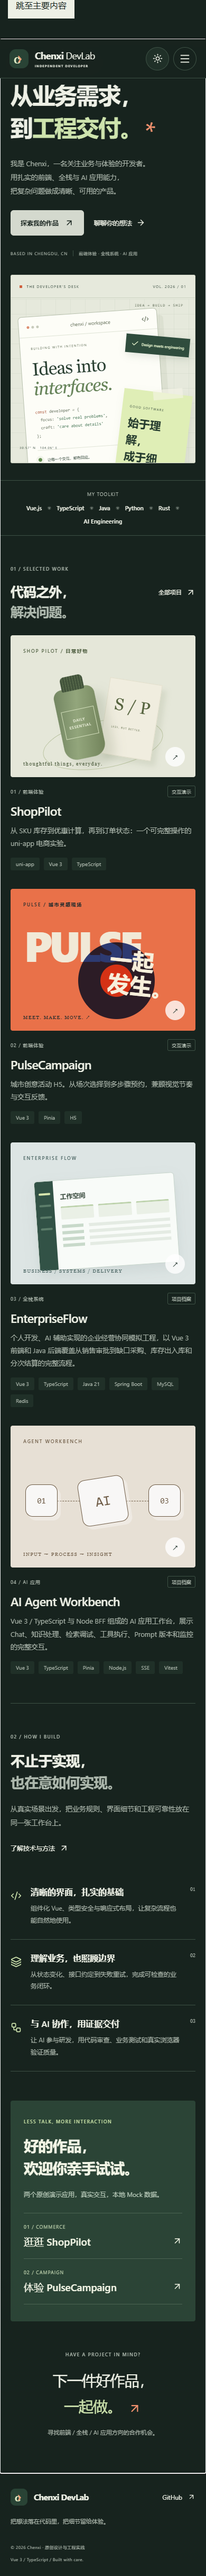
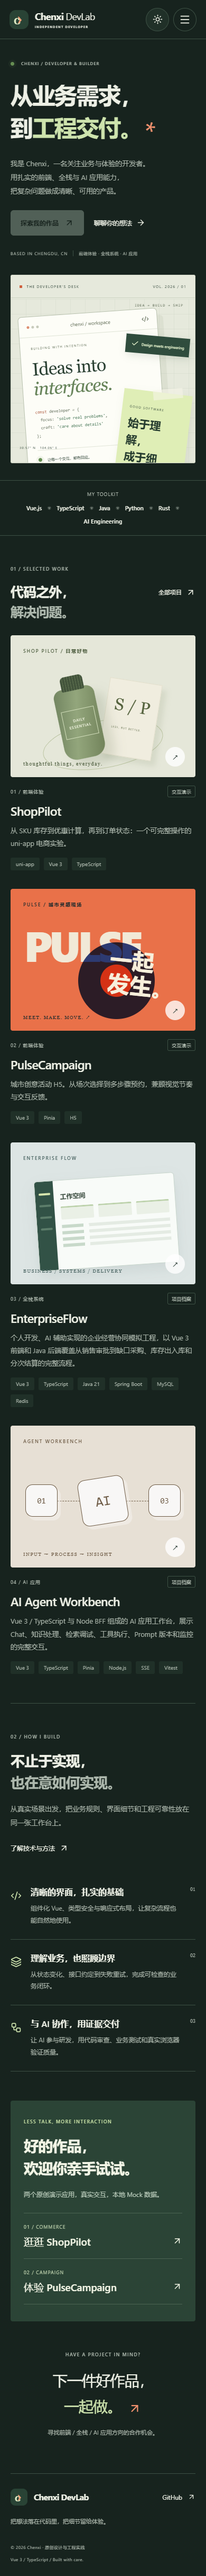
docs: record verified public deployment and online acceptance

diff --git a/DEPLOYMENT_REPORT.md b/DEPLOYMENT_REPORT.md
@@ -1,0 +1,37 @@
+# GitHub 发布与线上验收
+
+首次部署成功：**2026-10-12 13:43:22（Asia/Shanghai）**。
+
+- 公开仓库：[Callmecx/chenxi-devlab-2026](https://github.com/Callmecx/chenxi-devlab-2026)
+- 主站：[Chenxi DevLab](https://callmecx.github.io/chenxi-devlab-2026/)
+- 作品一：[ShopPilot H5](https://callmecx.github.io/chenxi-devlab-2026/shop/)
+- 作品二：[PulseCampaign H5](https://callmecx.github.io/chenxi-devlab-2026/pulse/)
+- 首轮成功工作流：[Actions 38208920874](https://github.com/Callmecx/chenxi-devlab-2026/actions/runs/38208920874)
+- 首次部署提交：`e374e3c737a7f6029fd42bd5bb2e7f91f0283210`
+- GitHub deployment ID：`7007324565`，API 状态 `success`。
+
+## 远端构建证据
+
+GitHub Actions 在 Ubuntu runner 中完成两套 `npm ci`、TypeScript、Lint、35 项单元/状态测试、三个 H5 构建、微信小程序编译、17 项 Playwright 测试和发布文件扫描。首轮 build job 用时 3 分 12 秒，Pages deploy 用时 11 秒。浏览器测试用时 29.3 秒。
+
+工作流保留 `test-evidence` 与 `wechat-mini-build` 产物。下载小程序产物后可用微信开发者工具尝试游客导入；没有微信审核、真机或支付上线结论。
+
+## 线上实际检查
+
+2026-10-12 13:45（北京时间），以 Chrome 154.0.8037.94 访问生产地址并验证：
+
+| 对象 | 结果 |
+|---|---|
+| 主站、ShopPilot、PulseCampaign | HTTP 200，标题与应用相符 |
+| 三个入口 390px 宽度 | 无横向溢出 |
+| 主站项目详情 → ShopPilot → 返回主站 | 保持正确仓库子路径 |
+| `evidence/TEST_REPORT.md` | HTTP 200 |
+| 历史企业管理系统截图、ShopPilot 本次结算截图 | HTTP 200 |
+| 页面异常 | 0 |
+| 第三方请求来源 | 0 |
+
+机器记录：[online-smoke.json](docs/testing/online-smoke.json)。这是实际线上冒烟验证，完整业务边界由本地与 CI 测试覆盖；不把 HTTP 200 当作所有商业场景验收。
+
+## 公开范围
+
+只发布本次新建源码、明确授权邮箱、原创新作品与脱敏证据。没有修改或上传用户其他私有工程。已知 uni-app 构建工具上游限制继续在 [安全报告](docs/testing/SECURITY_REVIEW.md) 中公开，不宣称绝对零风险。

diff --git a/README.md b/README.md
@@ -6,6 +6,10 @@
 
 公开仓库：[Callmecx/chenxi-devlab-2026](https://github.com/Callmecx/chenxi-devlab-2026)。
 
+**在线体验：[个人主站](https://callmecx.github.io/chenxi-devlab-2026/) · [ShopPilot](https://callmecx.github.io/chenxi-devlab-2026/shop/) · [PulseCampaign](https://callmecx.github.io/chenxi-devlab-2026/pulse/)**
+
+2026-10-12 已完成 GitHub Pages 发布，三个入口均通过线上 Chrome 检查。部署与复核证据见 [DEPLOYMENT_REPORT.md](DEPLOYMENT_REPORT.md)。
+
 本仓库不包含既有客户数据、私有项目源码、真实支付、交易执行或模型凭据。联系：[GitHub @Callmecx](https://github.com/Callmecx) · [496684212@qq.com](mailto:496684212@qq.com)（本人授权公开）。
 
 ![Chenxi DevLab 实际桌面界面](docs/screenshots/portfolio-desktop.png)
@@ -80,6 +84,6 @@ npm run security:scan
 
 `BASE_PATH` 指定项目级部署路径，例如 PowerShell 设置 `$env:BASE_PATH='/your-repository/'` 后运行构建。汇总产物在 `dist/`，不包含服务器端业务进程。
 
-GitHub 仓库和公网预览地址只在真实创建、推送与部署成功后记录。当前发布状态以交付报告和远端 Actions 结果为准，不根据预期仓库名构造成功链接。
+GitHub Actions 自动安装两套锁定依赖、检查类型与 Lint、执行单元/浏览器测试、构建 H5/小程序、扫描发布文件，再发布 GitHub Pages。小程序构建和测试证据作为 Actions artifacts 保留。CI 安装 CJK 字体，确保中文浏览器截图可读。
 
 本地模拟状态仅保存在当前浏览器；没有真实支付、服务器可信库存、多端同步或商业客户规模。开发采用 AI 协同，项目叙述与验收坚持以实际代码和可复现证据为准。

diff --git a/TEST_REPORT.md b/TEST_REPORT.md
@@ -24,6 +24,8 @@
 
 响应式用例自动断言无横向溢出；流程用例覆盖真实浏览器点击、输入、刷新与状态恢复。另已人工查看桌面、移动、小屏截图，检查布局与信息层级。页面截图见 [docs/screenshots](docs/screenshots)。
 
+GitHub Actions 首轮 Linux 独立验收也全部通过，17 项浏览器测试用时 29.3 秒；构建与部署成功记录见 [DEPLOYMENT_REPORT.md](DEPLOYMENT_REPORT.md)。2026-10-12 13:45（北京时间）线上 Chrome 检查通过：三个入口 HTTP 200、主站与商城往返正确、测试说明及两类截图资源可用，无页面异常或第三方网络请求。
+
 ## 必验流程
 
 - 主站：导航、项目分类与搜索、空结果、主题持久化、项目详情锚点、真实截图弹窗、邮箱链接、移动菜单及键盘跳转。
